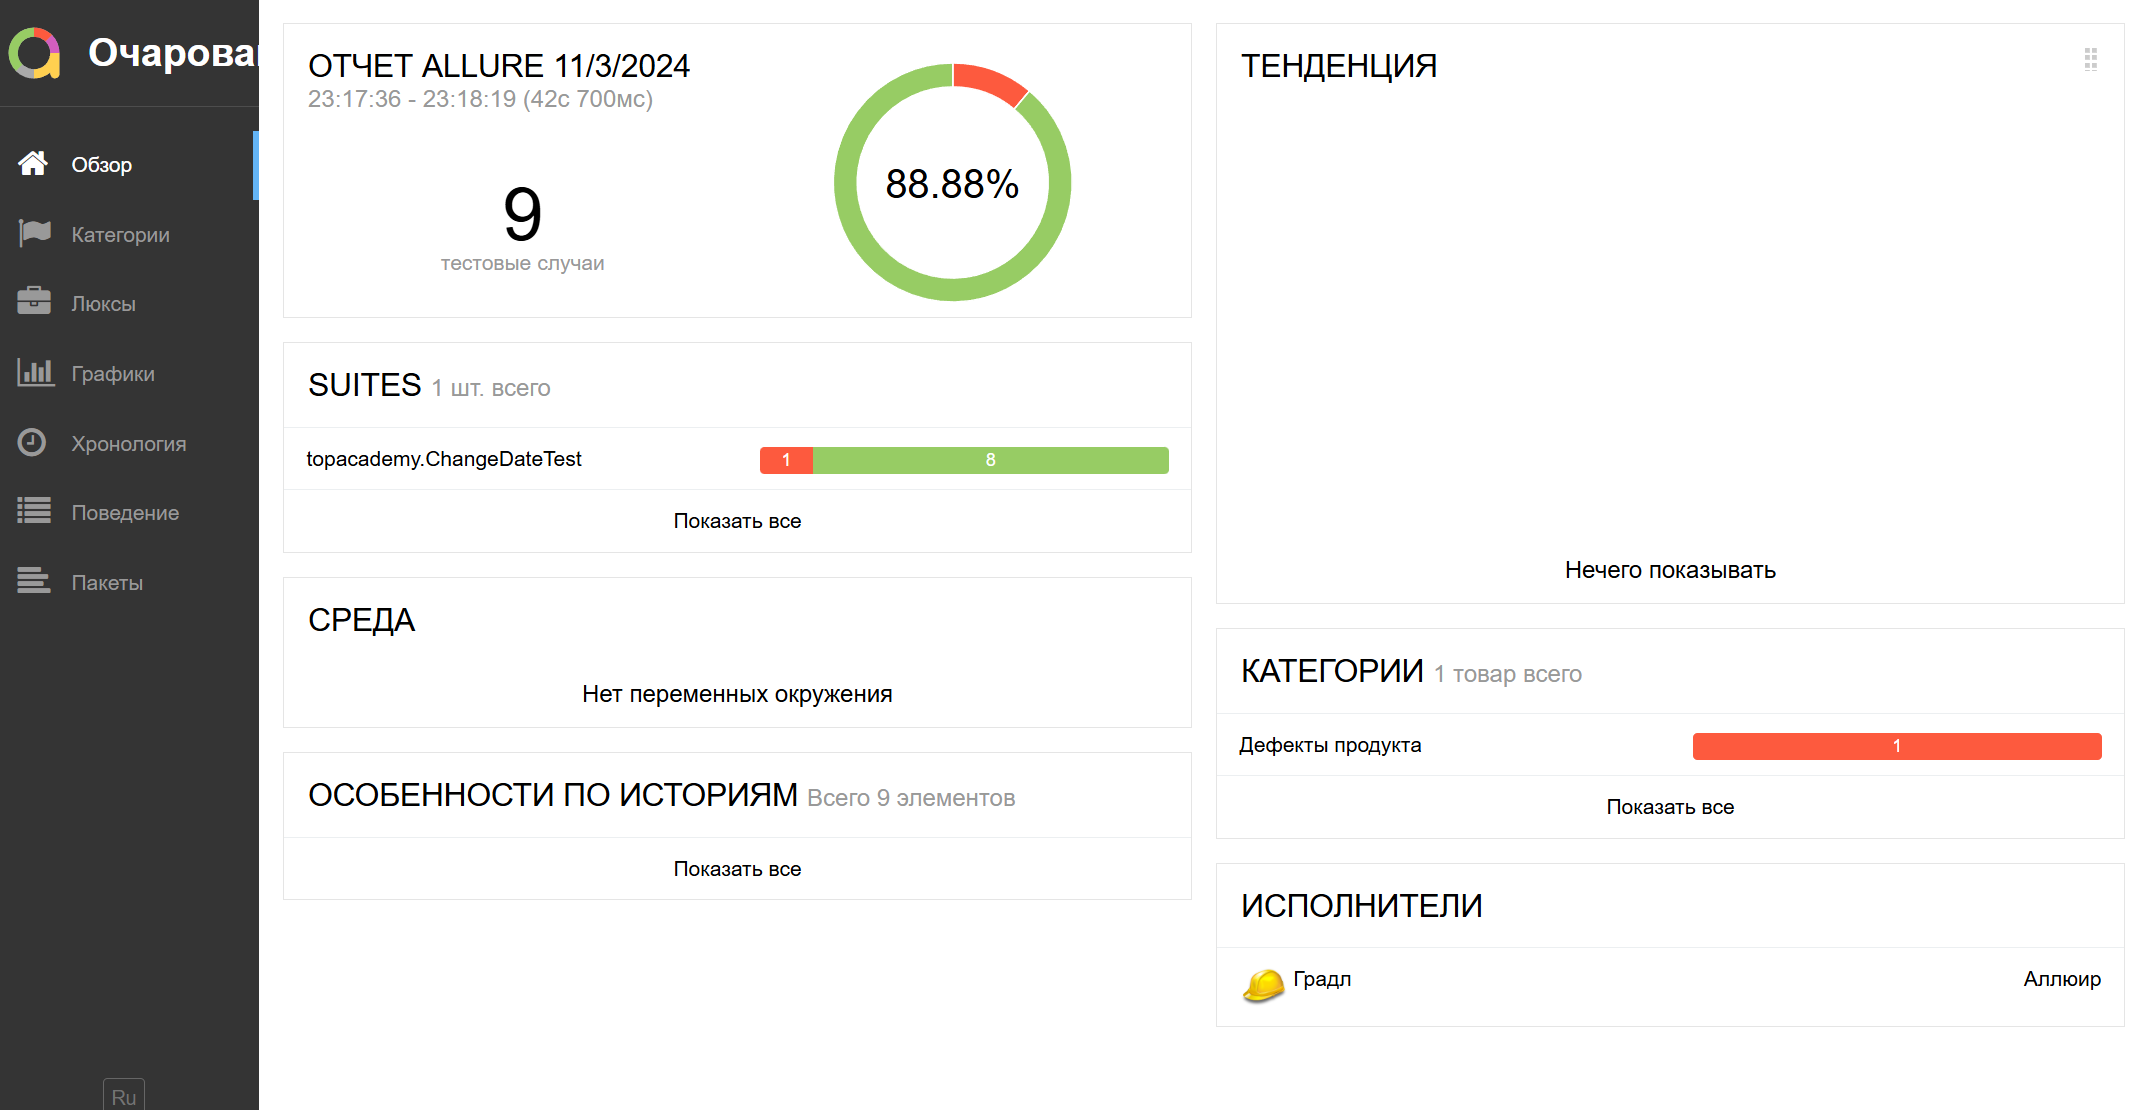
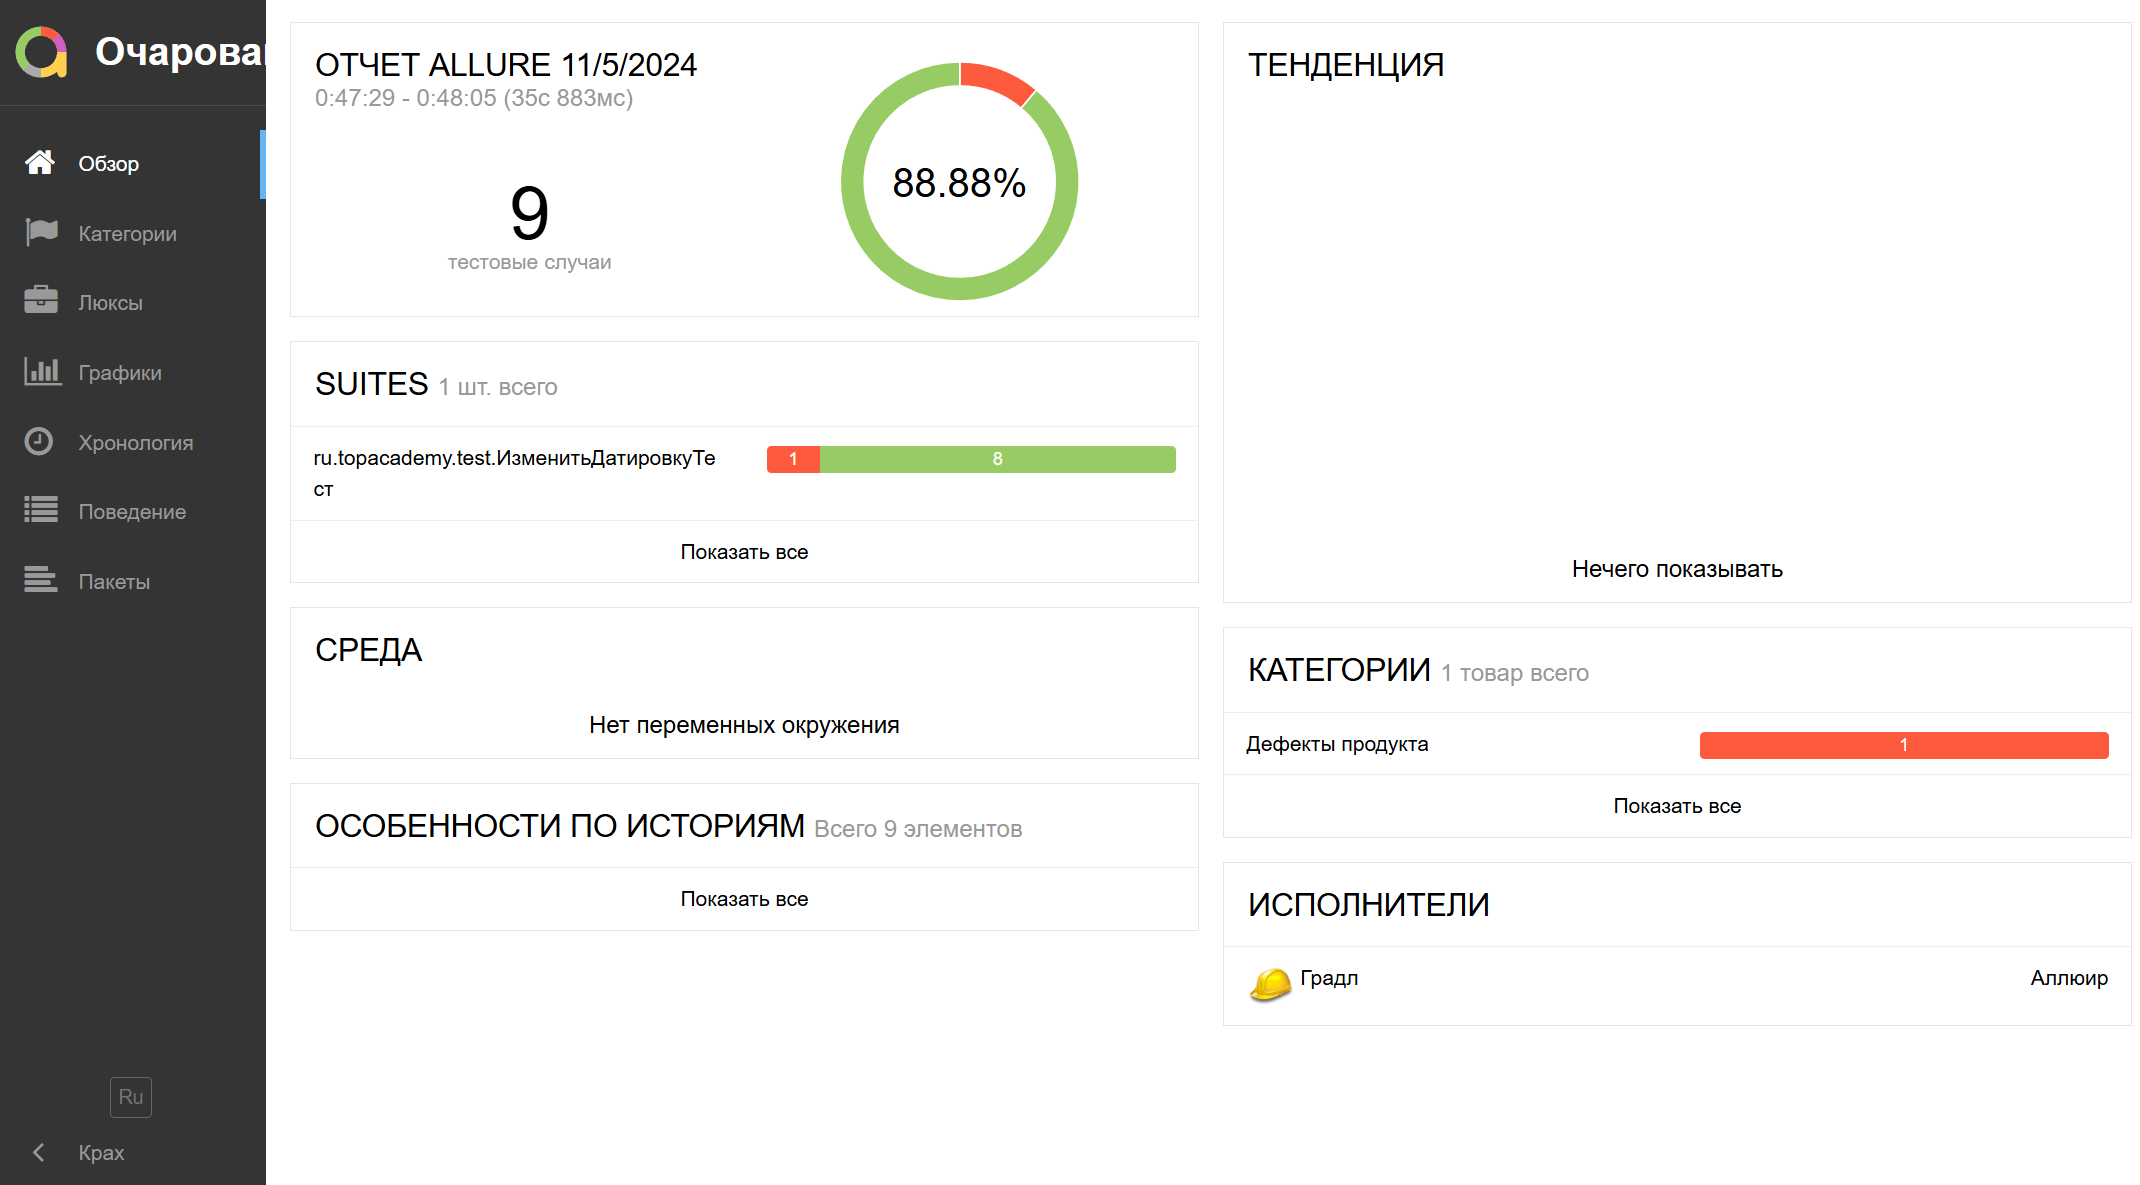
modified

diff --git a/src/test/java/ru/topacademy/test/ChangeDateTest.java b/src/test/java/ru/topacademy/test/ChangeDateTest.java
@@ -1,8 +1,13 @@
-package topacademy;
+package ru.topacademy.test;
 
+import com.codeborne.selenide.logevents.SelenideLogger;
+import io.qameta.allure.selenide.AllureSelenide;
+import org.junit.jupiter.api.AfterEach;
 import org.junit.jupiter.api.BeforeEach;
+import org.junit.jupiter.api.DisplayName;
 import org.junit.jupiter.api.Test;
 import org.openqa.selenium.Keys;
+import ru.topacademy.data.DataGenerator;
 
 import java.time.Duration;
 
@@ -11,26 +16,29 @@ import static com.codeborne.selenide.Selenide.$;
 import static com.codeborne.selenide.Selenide.open;
 
 public class ChangeDateTest {
-    DataGenerator dataGenerator = new DataGenerator();
+    DataGenerator DataGenerator = new DataGenerator();
 
     String city = DataGenerator.genCity();
-
     String name = DataGenerator.genName();
-
     String phone = DataGenerator.genPhone();
-
     String planDate = DataGenerator.genDate(3, "dd.MM.yyyy");
-
     String changeDate = DataGenerator.genDate(7, "dd.MM.yyyy");
 
     @BeforeEach
     public void setUp() {
+        SelenideLogger.addListener("allure", new AllureSelenide());
         open("http://localhost:9999/");
     }
 
+    @AfterEach
+    public void tearDown() {
+        SelenideLogger.removeListener("allure");
+    }
+
+
     @Test
+    @DisplayName("1.Проверка успешной отправки формы с валидными данными и изменением даты встречи")
     public void sendForm() {
-        // Проверка успешной отправки формы с валидными данными и изменением даты встречи
         $("[data-test-id=city] input").setValue(city);
         $(".calendar-input__custom-control input").doubleClick().sendKeys(planDate);
         $("[data-test-id=name] input").setValue(name);
@@ -48,8 +56,8 @@ public class ChangeDateTest {
     }
 
     @Test
+    @DisplayName("2.Проверка валидации поля города с неверным названием города")
     public void validCity() {
-        // Проверка валидации поля города с неверным названием города
         $("[data-test-id=city] input").setValue("Берёзовский");
         $(".calendar-input__custom-control input").doubleClick().sendKeys(planDate);
         $("[data-test-id=name] input").setValue(name);
@@ -60,8 +68,8 @@ public class ChangeDateTest {
     }
 
     @Test
+    @DisplayName("3.Проверка валидации поля города, когда оно пустое")
     public void noCity() {
-        // Проверка валидации поля города, когда оно пустое
         $(".calendar-input__custom-control input").doubleClick().sendKeys(planDate);
         $("[data-test-id=name] input").setValue(name);
         $("[data-test-id=phone] input").setValue(phone);
@@ -71,8 +79,8 @@ public class ChangeDateTest {
     }
 
     @Test
+    @DisplayName("4.Проверка валидации поля даты, когда оно пустое")
     public void noDate() {
-        // Проверка валидации поля даты, когда оно пустое
         $("[data-test-id=city] input").setValue(city);
         $(".calendar-input__custom-control input").doubleClick().sendKeys(Keys.BACK_SPACE);
         $("[data-test-id=name] input").setValue(name);
@@ -83,8 +91,8 @@ public class ChangeDateTest {
     }
 
     @Test
+    @DisplayName("5.Проверка валидации поля имени с неверным именем содержащим не русские символы")
     public void validName() {
-        // Проверка валидации поля имени с неверным именем (содержащим не русские символы)
         $("[data-test-id=city] input").setValue(city);
         $(".calendar-input__custom-control input").doubleClick().sendKeys(planDate);
         $("[data-test-id=name] input").setValue("Gogenov-Jozef");
@@ -95,8 +103,8 @@ public class ChangeDateTest {
     }
 
     @Test
+    @DisplayName("6.Проверка валидации поля имени, когда оно пустое")
     public void noName() {
-        // Проверка валидации поля имени, когда оно пустое
         $("[data-test-id=city] input").setValue(city);
         $(".calendar-input__custom-control input").doubleClick().sendKeys(planDate);
         $("[data-test-id=phone] input").setValue(phone);
@@ -106,8 +114,8 @@ public class ChangeDateTest {
     }
 
     @Test
+    @DisplayName("7.Проверка валидации поля телефона с неверным номером телефона")
     public void validPhone() {
-        // Проверка валидации поля телефона с неверным номером телефона
         $("[data-test-id=city] input").setValue(city);
         $(".calendar-input__custom-control input").doubleClick().sendKeys(planDate);
         $("[data-test-id=name] input").setValue(name);
@@ -118,8 +126,8 @@ public class ChangeDateTest {
     }
 
     @Test
+    @DisplayName("8.Проверка валидации поля телефона, когда оно пустое")
     public void noPhone() {
-        // Проверка валидации поля телефона, когда оно пустое
         $("[data-test-id=city] input").setValue(city);
         $(".calendar-input__custom-control input").doubleClick().sendKeys(planDate);
         $("[data-test-id=name] input").setValue(name);
@@ -129,8 +137,8 @@ public class ChangeDateTest {
     }
 
     @Test
+    @DisplayName("9.Проверка валидации, когда флажок согласия не отмечен")
     public void noCheckBox() {
-        // Проверка валидации, когда флажок согласия не отмечен
         $("[data-test-id=city] input").setValue(city);
         $(".calendar-input__custom-control input").doubleClick().sendKeys(planDate);
         $("[data-test-id=name] input").setValue(name);

diff --git a/src/test/java/ru/topacademy/data/DataGenerator.java b/src/test/java/ru/topacademy/data/DataGenerator.java
@@ -1,4 +1,4 @@
-package topacademy;
+package ru.topacademy.data;
 
 import com.github.javafaker.Faker;
 

diff --git a/Readme.md b/Readme.md
@@ -3,4 +3,4 @@
 
 ![img.png](img.png)
 
-![img_1.png](img_1.png)
+![img_2.png](img_2.png)
